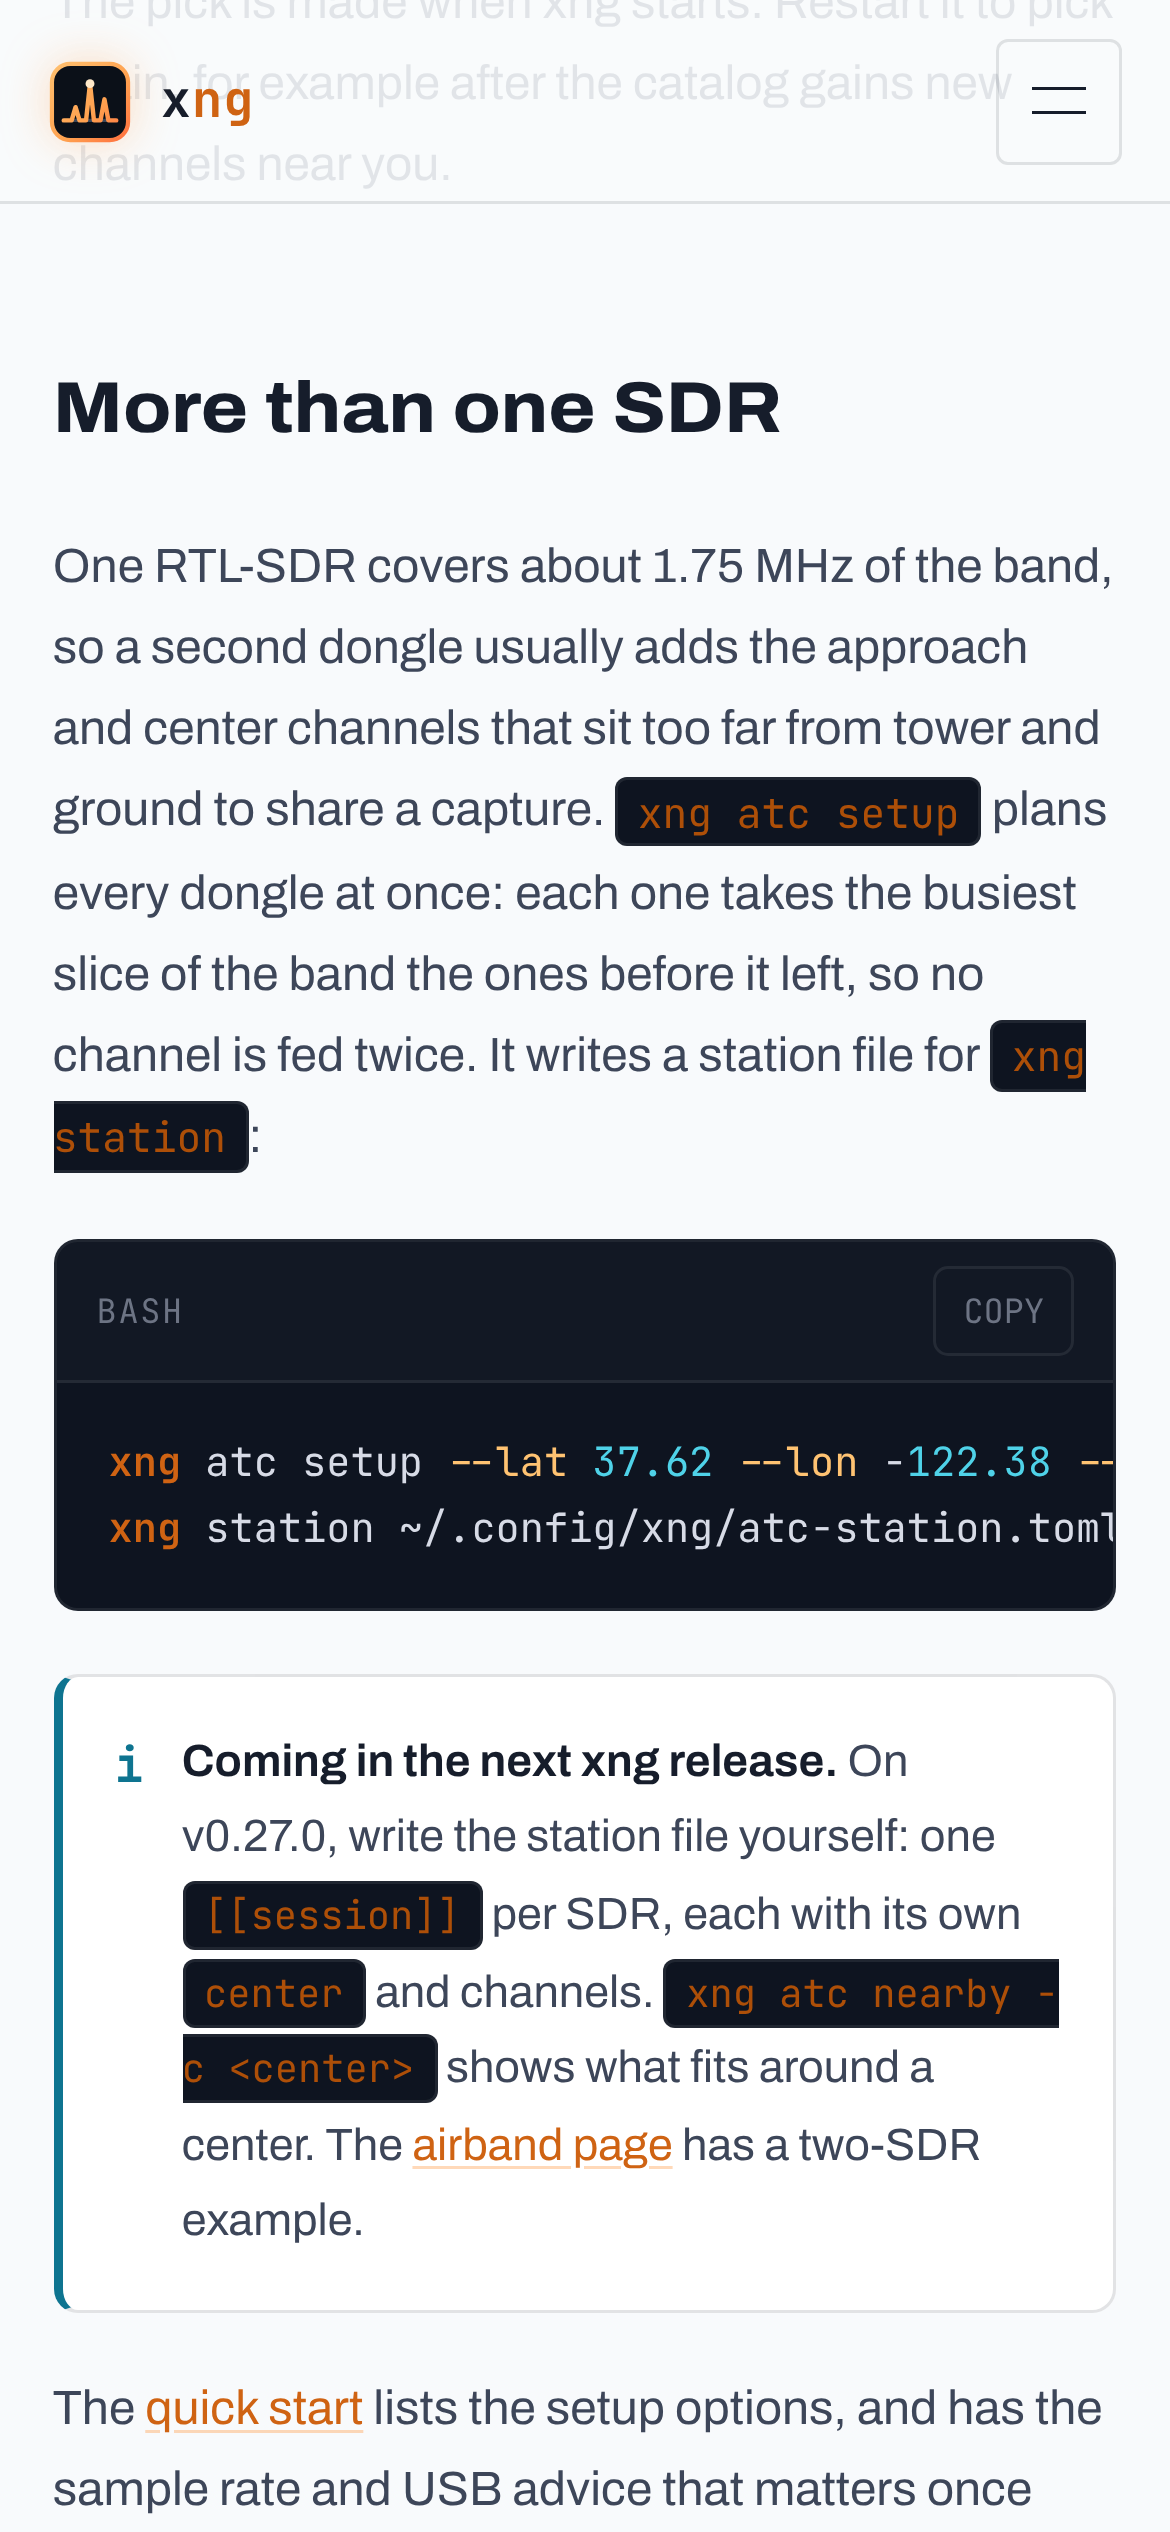
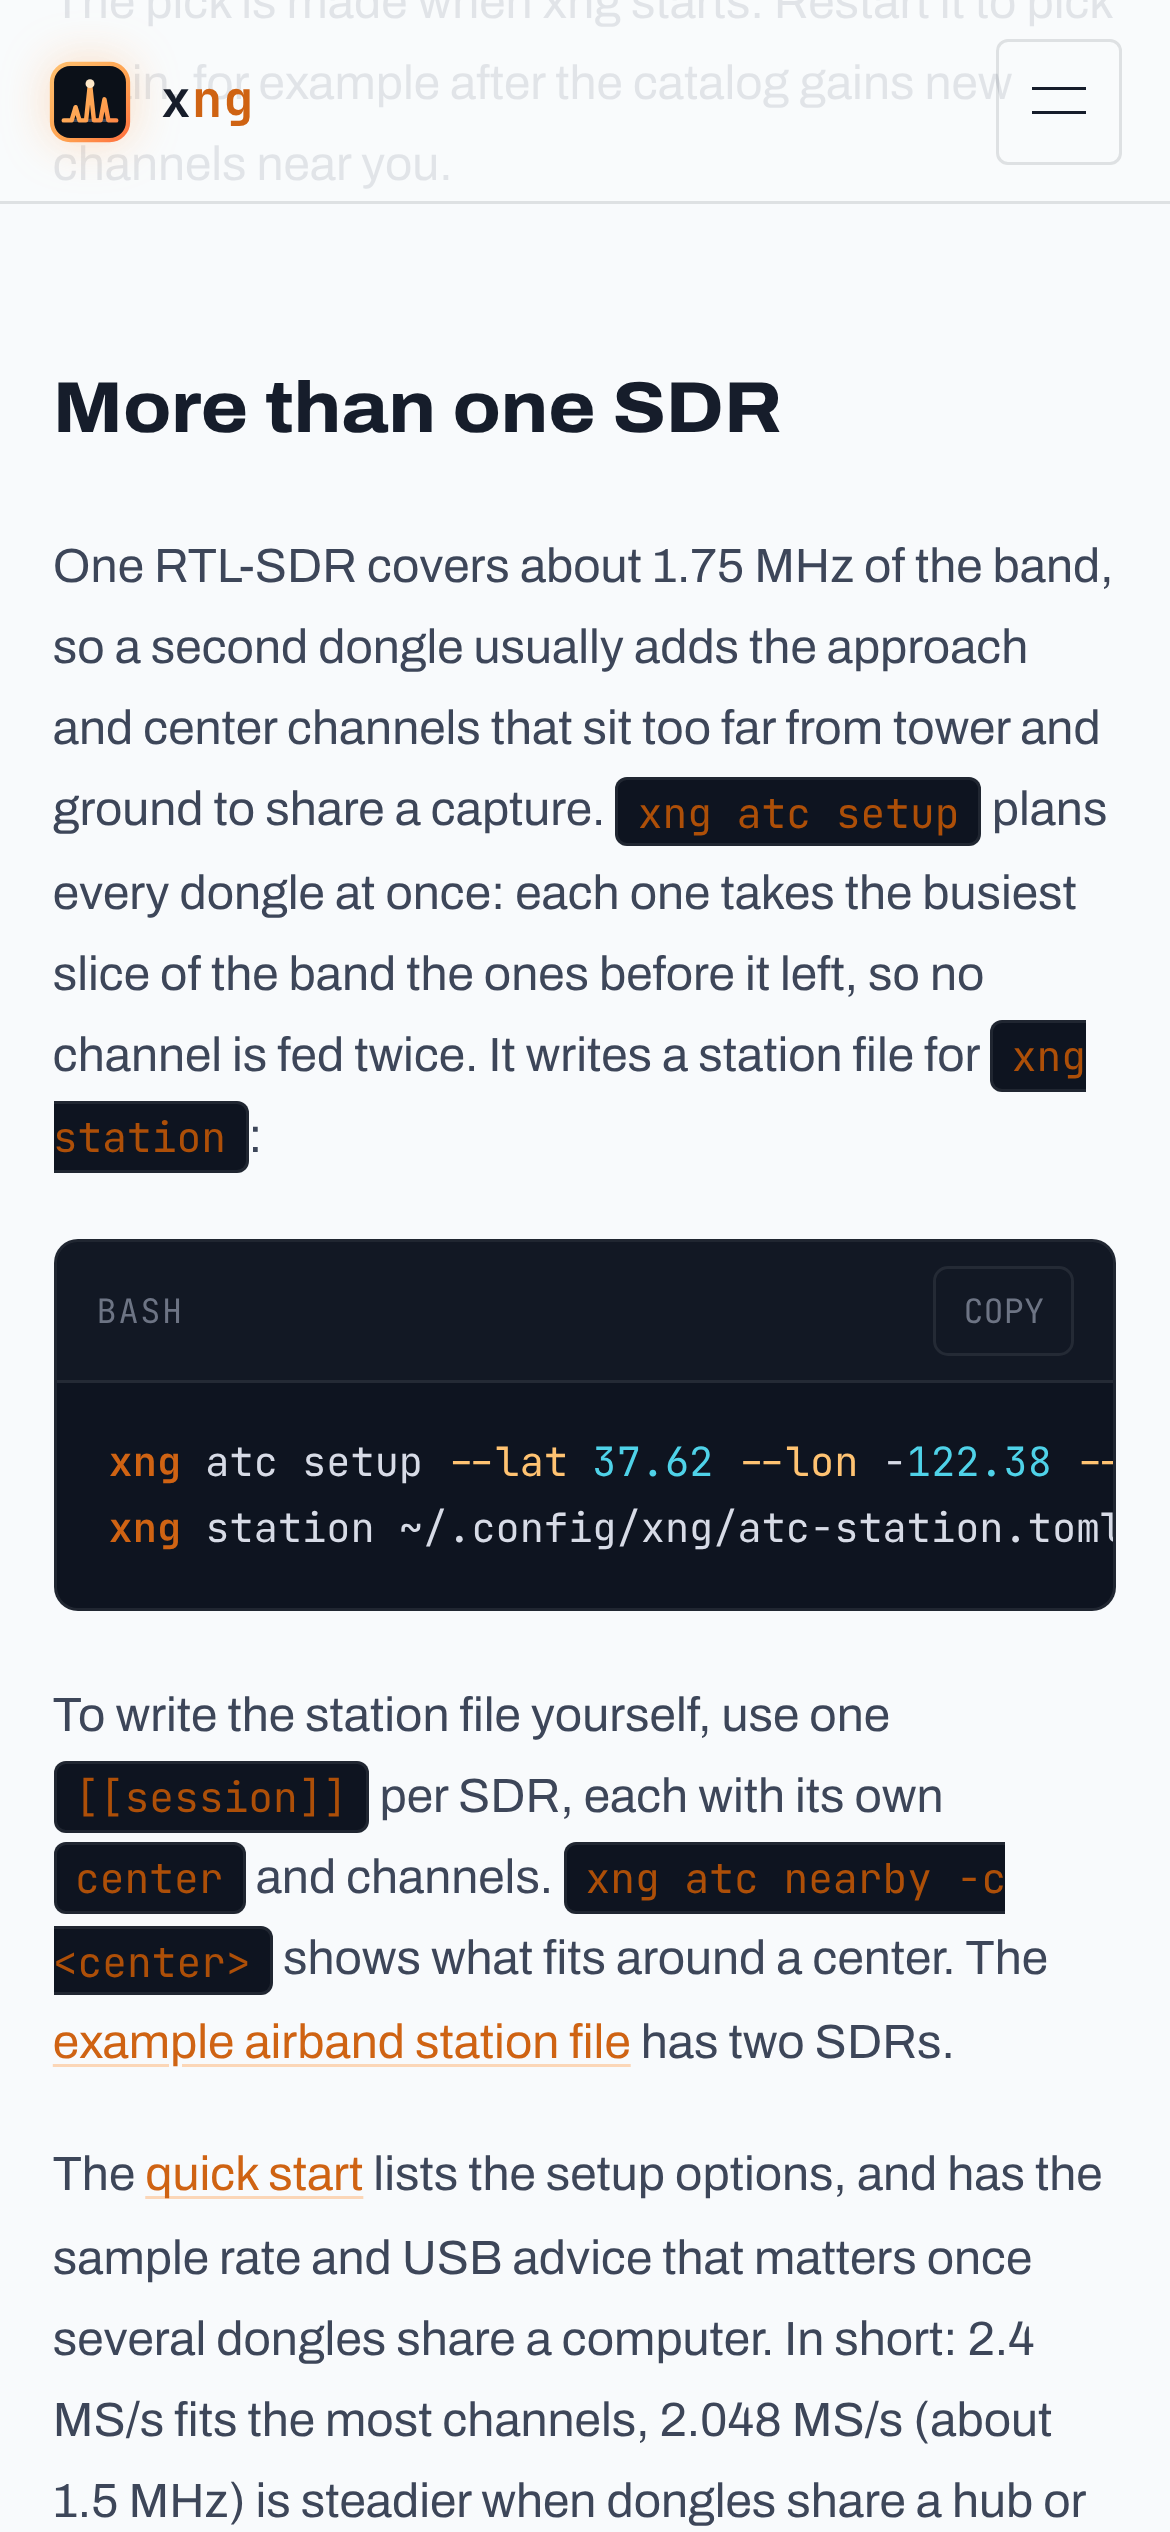
docs: xng v0.28.0 ships atc setup and station UUIDs
Claude-Session: https://claude.ai/code/session_01PS44Q8mVQcVxCXeXsaCMDU

Changed region(s): [[0.0308, 0.6552, 0.9538, 0.9984]]

diff --git a/pages/docs/atc-feeding.js b/pages/docs/atc-feeding.js
@@ -29,7 +29,7 @@ export default function AtcFeeding() {
         <li>An RTL-SDR (a V4 is fine) or another SoapySDR device, with an airband or discone antenna.</li>
         <li>A Linux box, a Raspberry Pi (Pi OS Bookworm) or a Mac, online all the time.</li>
         <li>
-          An Airframes account (free) and xng v0.27.0 or later. See{' '}
+          An Airframes account (free) and xng v0.28.0 or later. See{' '}
           <Link href="/docs/install">Installation</Link>.
         </li>
         <li>Your station&apos;s position. Listeners only see it rounded to about 100 m.</li>
@@ -39,7 +39,7 @@ export default function AtcFeeding() {
       <CodeBlock
         lang="bash"
         code={`# Debian / Ubuntu / Pi OS (pick the .deb for your machine from the releases page)
-sudo apt install ./xng-0.27.0-arm64.deb
+sudo apt install ./xng-0.28.0-arm64.deb
 xng devices        # the RTL-SDR should be listed`}
       />
 
@@ -112,15 +112,13 @@ atc feed: connected to atc-ingest.airframes.io:4433 over quic as you, feeding 3 
         code={`xng atc setup --lat 37.62 --lon -122.38 --station-name "My station"
 xng station ~/.config/xng/atc-station.toml`}
       />
-      <Callout type="note">
-        <p>
-          <strong>Coming in the next xng release.</strong> On v0.27.0, write the station file
-          yourself: one <code>[[session]]</code> per SDR, each with its own <code>center</code> and
-          channels. <code>xng atc nearby -c &lt;center&gt;</code> shows what fits around a center. The{' '}
-          <a href="https://github.com/airframesio/xng/blob/master/contrib/station.airband.example.toml">example airband station file</a>{' '}
-          has two SDRs.
-        </p>
-      </Callout>
+      <p>
+        To write the station file yourself, use one <code>[[session]]</code> per SDR, each with its
+        own <code>center</code> and channels. <code>xng atc nearby -c &lt;center&gt;</code> shows what
+        fits around a center. The{' '}
+        <a href="https://github.com/airframesio/xng/blob/master/contrib/station.airband.example.toml">example airband station file</a>{' '}
+        has two SDRs.
+      </p>
       <p>
         The <Link href="/docs/atc-quickstart">quick start</Link> lists the setup options, and has the
         sample rate and USB advice that matters once several dongles share a computer. In short:
@@ -202,18 +200,16 @@ journalctl -u xng-atc -f     # watch the log`}
         <code>~/.config/xng/atc.json</code>. Keep that file when you move to a new SD card or
         computer, and the feeds stay on the same station.
       </p>
-      <Callout type="note">
-        <p>
-          <strong>Coming in the next xng release:</strong> xng also sends a station UUID, so the
-          station stays linked even after a reinstall gives the feeder a new sign-in. It is saved for
-          you on first use, and it starts as the UUID Airframes already uses for your station, so
-          nothing changes for existing feeders. To pin it yourself, set{' '}
-          <code>--atc-station-uuid &lt;uuid&gt;</code>, <code>XNG_ATC_STATION_UUID</code>, or{' '}
-          <code>station-uuid</code> under <code>[outputs.airband.atc]</code>. Decoder feeds get the
-          same, with <code>station-uuid</code> at the top of the station file or{' '}
-          <code>XNG_STATION_UUID</code>.
-        </p>
-      </Callout>
+      <p>
+        Since v0.28.0, xng also sends a station UUID, so the
+        station stays linked even after a reinstall gives the feeder a new sign-in. It is saved for
+        you on first use, and it starts as the UUID Airframes already uses for your station, so
+        nothing changes for existing feeders. To pin it yourself, set{' '}
+        <code>--atc-station-uuid &lt;uuid&gt;</code>, <code>XNG_ATC_STATION_UUID</code>, or{' '}
+        <code>station-uuid</code> under <code>[outputs.airband.atc]</code>. Decoder feeds get the
+        same, with <code>station-uuid</code> at the top of the station file or{' '}
+        <code>XNG_STATION_UUID</code>.
+      </p>
 
       <h2>Privacy</h2>
       <ul>

diff --git a/pages/docs/atc-quickstart.js b/pages/docs/atc-quickstart.js
@@ -27,12 +27,12 @@ export default function AtcQuickstart() {
 
       <h2>1. Install xng and check your SDRs</h2>
       <p>
-        Get xng v0.27.0 or later from <Link href="/docs/install">Installation</Link>, then list the
+        Get xng v0.28.0 or later from <Link href="/docs/install">Installation</Link>, then list the
         dongles it can see:
       </p>
       <CodeBlock
         lang="bash"
-        code={`sudo apt install ./xng-0.27.0-arm64.deb   # Debian / Ubuntu / Pi OS
+        code={`sudo apt install ./xng-0.28.0-arm64.deb   # Debian / Ubuntu / Pi OS
 xng devices                                # every SDR should be listed`}
       />
       <Callout type="warn">
@@ -51,13 +51,6 @@ xng atc status     # checks the sign-in`}
       />
 
       <h2>3. Let xng plan the feed</h2>
-      <Callout type="note">
-        <p>
-          <strong>Coming in the next xng release.</strong> <code>xng atc setup</code> is not in
-          v0.27.0 yet. With one SDR on v0.27.0, use the{' '}
-          <a href="#one-sdr-today">one-command feed</a> below.
-        </p>
-      </Callout>
       <CodeBlock
         lang="bash"
         code={`xng atc setup --lat 38.68 --lon -120.98 --station-name "Cameron Park"`}
@@ -148,7 +141,7 @@ WantedBy=multi-user.target`}
 journalctl -u xng-atc -f     # watch the log`}
       />
 
-      <h2 id="one-sdr-today">One SDR on xng v0.27.0</h2>
+      <h2 id="one-sdr-today">One SDR without a station file</h2>
       <p>
         With a single dongle you don&apos;t need a station file. <code>--channels auto</code> makes
         the same pick for one SDR every time xng starts:

diff --git a/pages/docs/cli.js b/pages/docs/cli.js
@@ -22,7 +22,7 @@ export default function Cli() {
             <tr><td><code>survey</code></td><td>Soak-test one mode across all channels; report per-channel stats and advice.</td></tr>
             <tr><td><code>station</code></td><td>Run a whole station from a TOML config (many modes/SDRs in one process).</td></tr>
             <tr><td><code>status</code></td><td>Show a running station’s sessions and live decode status.</td></tr>
-            <tr><td><code>atc</code></td><td>The Airframes ATC network: sign in (<code>login</code>, <code>logout</code>, <code>status</code>), see the channels near you (<code>nearby</code>) and their catalog entries (<code>match</code>), and plan a feed for your SDRs (<code>setup</code>, next release).</td></tr>
+            <tr><td><code>atc</code></td><td>The Airframes ATC network: sign in (<code>login</code>, <code>logout</code>, <code>status</code>), see the channels near you (<code>nearby</code>) and their catalog entries (<code>match</code>), and plan a feed for your SDRs (<code>setup</code>).</td></tr>
             <tr><td><code>devices</code></td><td>List available SDR devices (native Airspy + SoapySDR).</td></tr>
             <tr><td><code>iq-info</code></td><td>Inspect a recorded IQ file: duration, power, spectral peaks.</td></tr>
             <tr><td><code>ingest</code></td><td>Run the reference asf-2.0 ingest server (gRPC and/or QUIC).</td></tr>

diff --git a/pages/docs/index.js b/pages/docs/index.js
@@ -84,7 +84,7 @@ export default function DocsIntro() {
 
       <h2>Project status</h2>
       <p>
-        xng is at <strong>v0.27.0</strong> — pre-1.0 but actively developed and already feeding
+        xng is at <strong>v0.28.0</strong> — pre-1.0 but actively developed and already feeding
         production Airframes from live stations. The VHF ACARS chain is validated end-to-end;
         VDL2, HFDL, AIS, Mode S/ADS-B, STD-C, Aero, Iridium and several others are validated
         against real off-air recordings and fenced by CI regression gates. A handful of newer

diff --git a/pages/docs/airband.js b/pages/docs/airband.js
@@ -109,7 +109,7 @@ xng atc login --email you@example.com    # or with a password
 xng atc status           # who this feeder is signed in as
 
 xng atc nearby --lat 37.62 --lon -122.38   # the ATC channels near you that fit one dongle
-xng atc setup --lat 37.62 --lon -122.38    # next release: plan every SDR, write a station file
+xng atc setup --lat 37.62 --lon -122.38    # plan every SDR, write a station file
 
 xng listen --sdr driver=rtlsdr --mode airband -r 2400000 --channels auto \\
     --receiver-pos 37.62,-122.38 --atc-feed
